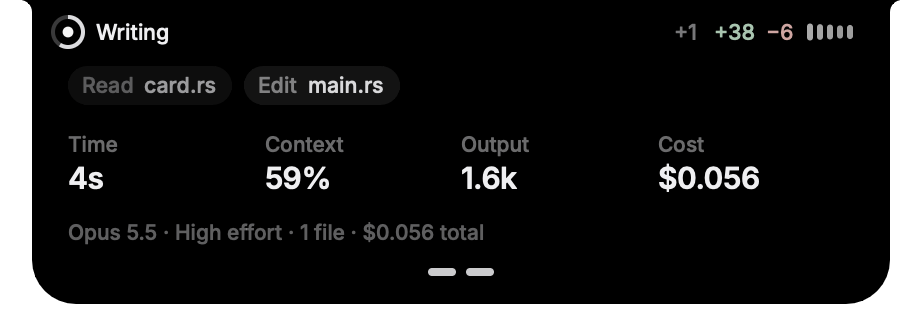
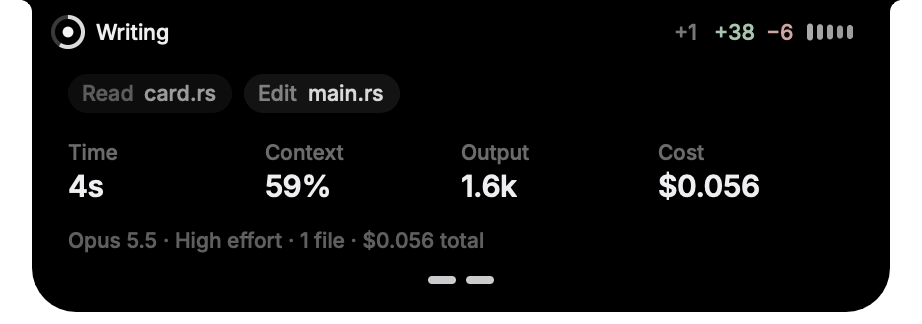
padding, docs

diff --git a/src/expanded.rs b/src/expanded.rs
@@ -11,7 +11,8 @@ pub fn card_labels(s: &State, g: &Geom, alpha: f32, mut shape: Shape, labels: &m
     const CAPTION: TextStyle = TextStyle::new(10.5, 500.0);
     const VALUE: TextStyle = TextStyle::new(15.0, 550.0).tracking(-0.2);
     let (x0, x1) = (g.left() + 18.0, g.right() - 18.0);
-    let y0 = g.top + g.row + 4.0;
+    // Clear of the notch's bottom edge, which shows against the island's not-quite-black.
+    let y0 = g.top + g.row + 8.0;
     let w = |t: &str| rune::text::measure(t, &[], LABEL, None).0;
     let label = |text: String, x: f32, room: f32, a: f32| Label { text, x, y: y0, room, alpha: alpha * a, color: INK, right: false, head: false, style: LABEL };
     let lead = s.lead();
@@ -88,7 +89,7 @@ pub fn pills(s: &State, g: &Geom, alpha: f32) -> Vec<El> {
     let n = s.chats.len();
     if n < 2 { return Vec::new() }
     let focus = s.focus();
-    let (x0, y, k) = (g.w * 0.5 - (W * n as f32 + GAP * (n - 1) as f32) * 0.5, g.top + g.row + 102.0, g.k);
+    let (x0, y, k) = (g.w * 0.5 - (W * n as f32 + GAP * (n - 1) as f32) * 0.5, g.top + g.row + 106.0, g.k);
     s.chats.iter().enumerate().map(|(i, c)| {
         let a = if focus.iter().any(|f| f.id == c.id) { 0.85 } else { 0.22 } * alpha;
         el().absolute((x0 + (W + GAP) * i as f32) * k, y * k).size(W * k, H * k).radius(H * 0.5 * k).pixel_snap(false).fill(Color { a, ..INK })

diff --git a/src/screen.rs b/src/screen.rs
@@ -21,7 +21,7 @@ pub const PILL_MM: f32 = 7.5;
 /// The pill's zoom when the display doesn't report its size.
 const ZOOM: f32 = 1.25;
 /// How far the expanded card reaches below the island's top row.
-pub const CARD_H: f32 = 104.0;
+pub const CARD_H: f32 = 108.0;
 /// How much further it reaches for the row of session pills, when there are two or more.
 pub const PILLS: f32 = 16.0;
 
